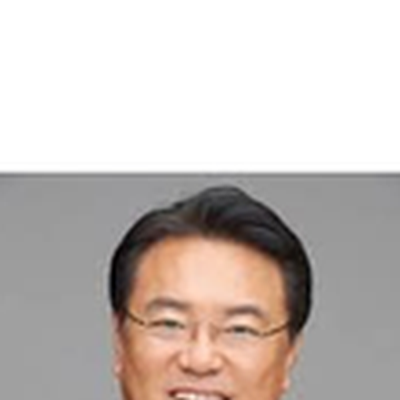
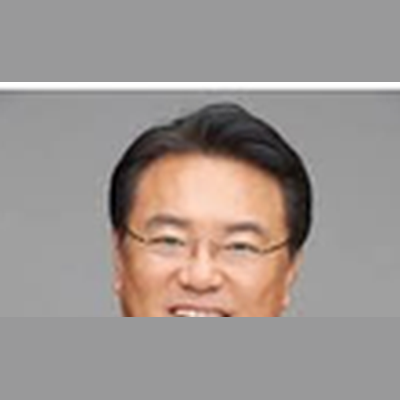
fix: 정진석 사진 흰색 빈 공간 자동 제거 (auto-crop)
문제: 원본 정진석.png(400x400)는 상단 약 170px가 흰색 빈 공간이고 얼굴이 사진 하단에 위치하여, w-12 h-12 원형 카드에서 object-cover로 표시 시 회색·흰색 영역이 중앙에 오고 얼굴이 작게 보임. CSS objectPosition 보정(center 20% / 75%)으로는 근본 해결 불가.

수정: Python Pillow로 흰색 영역 자동 감지 후 crop (170px 제거 → 400x230)
- 회색(153,153,154) 배경색으로 정사각형 padding 추가하여 400x400 유지
- 얼굴이 사진 정중앙에 위치, object-cover 기본값으로도 자연스럽게 표시
- PERSON_PHOTO_POSITIONS의 정진석 항목 제거 (CSS 보정 불필요)
- 빈 객체 유지하여 향후 다른 사진 보정 필요 시 확장 가능

배포 완료: https://siminbupjung-blog.web.app

diff --git a/src/pages/SentencingAnalysis.jsx b/src/pages/SentencingAnalysis.jsx
@@ -43,9 +43,8 @@ const PERSON_PHOTOS = {
 };
 
 // 사진별 objectPosition 보정 (기본값은 'center', 얼굴이 잘려 보이는 경우만 명시)
-const PERSON_PHOTO_POSITIONS = {
-    '정진석': 'center 20%'  // 원본 사진에서 얼굴이 위쪽에 위치하여 머리 상단이 잘리지 않도록 보정
-};
+// 현재 보정이 필요한 인물 없음. 새 사진이 잘려 보일 경우 여기에 'center 30%' 등으로 추가하면 됨.
+const PERSON_PHOTO_POSITIONS = {};
 
 // 내란 관련 인물 데이터 (가나다순)
 const personsData = {